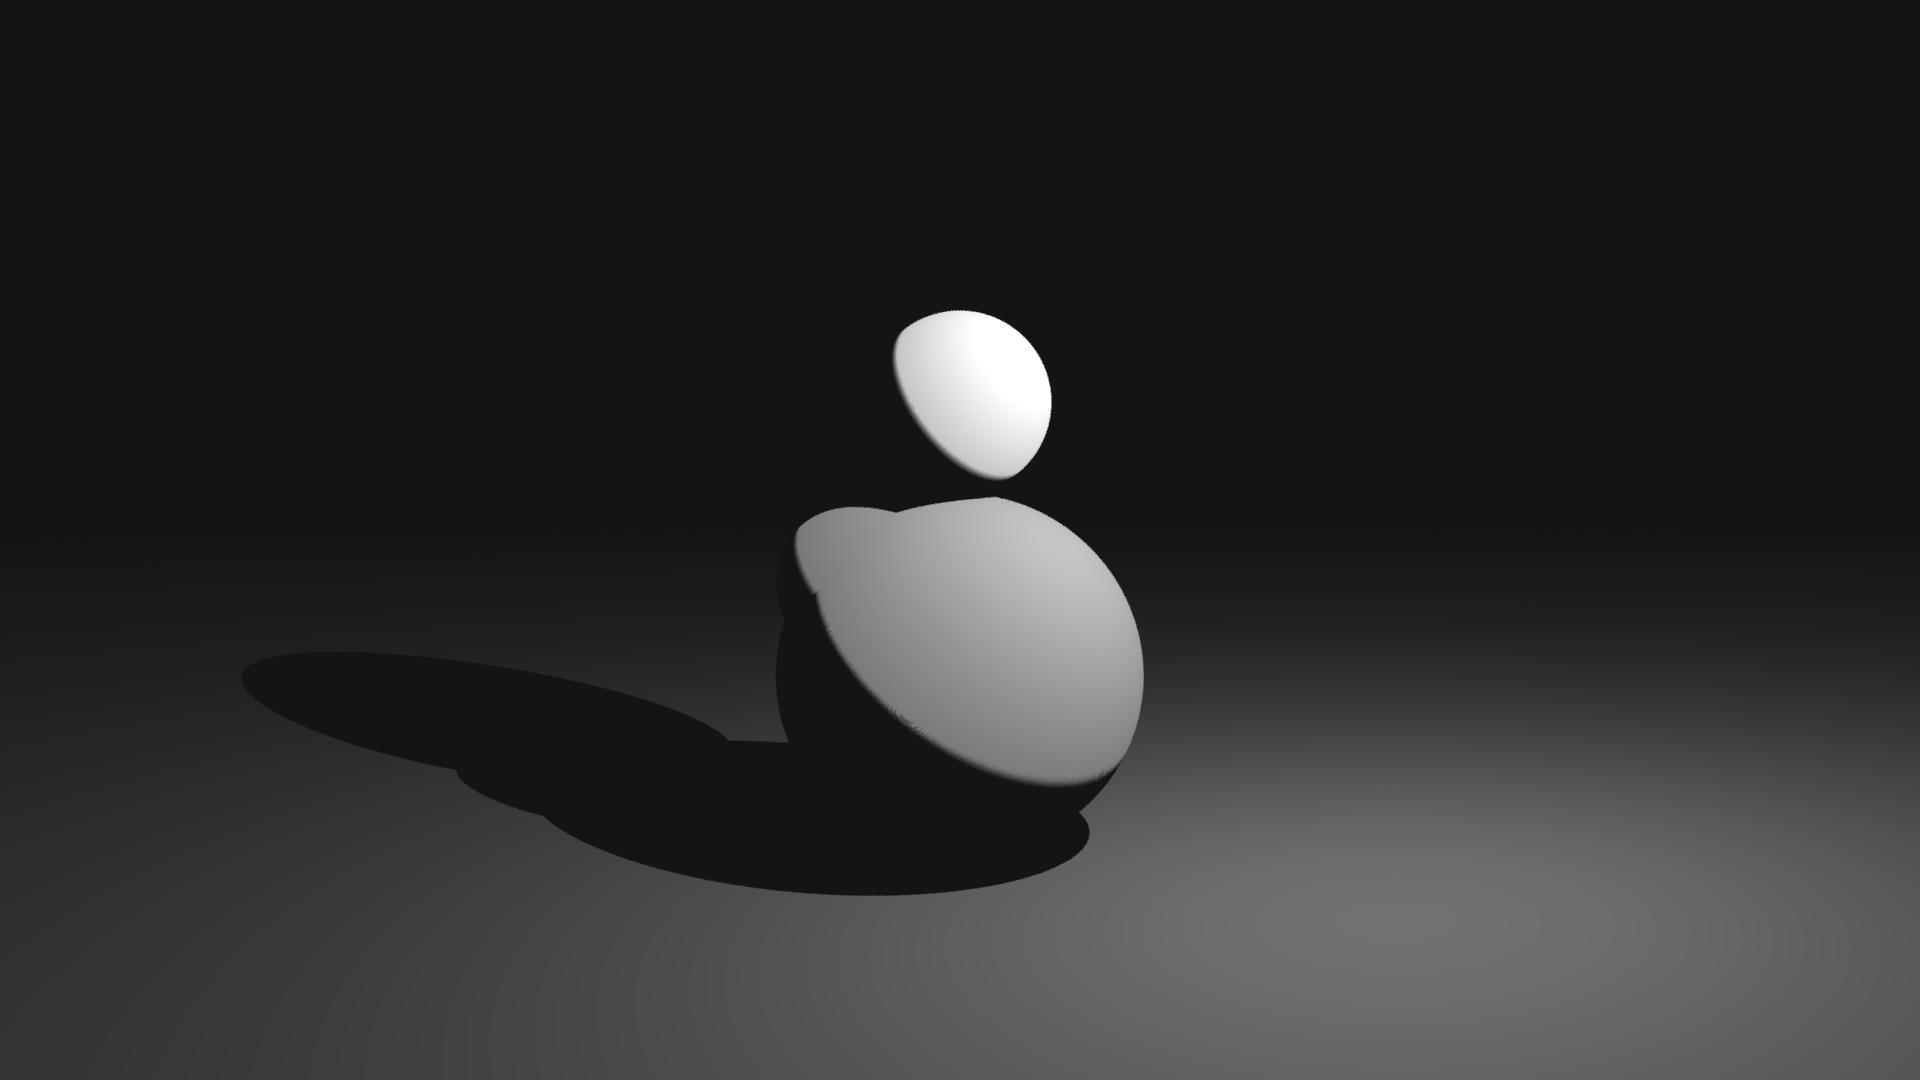
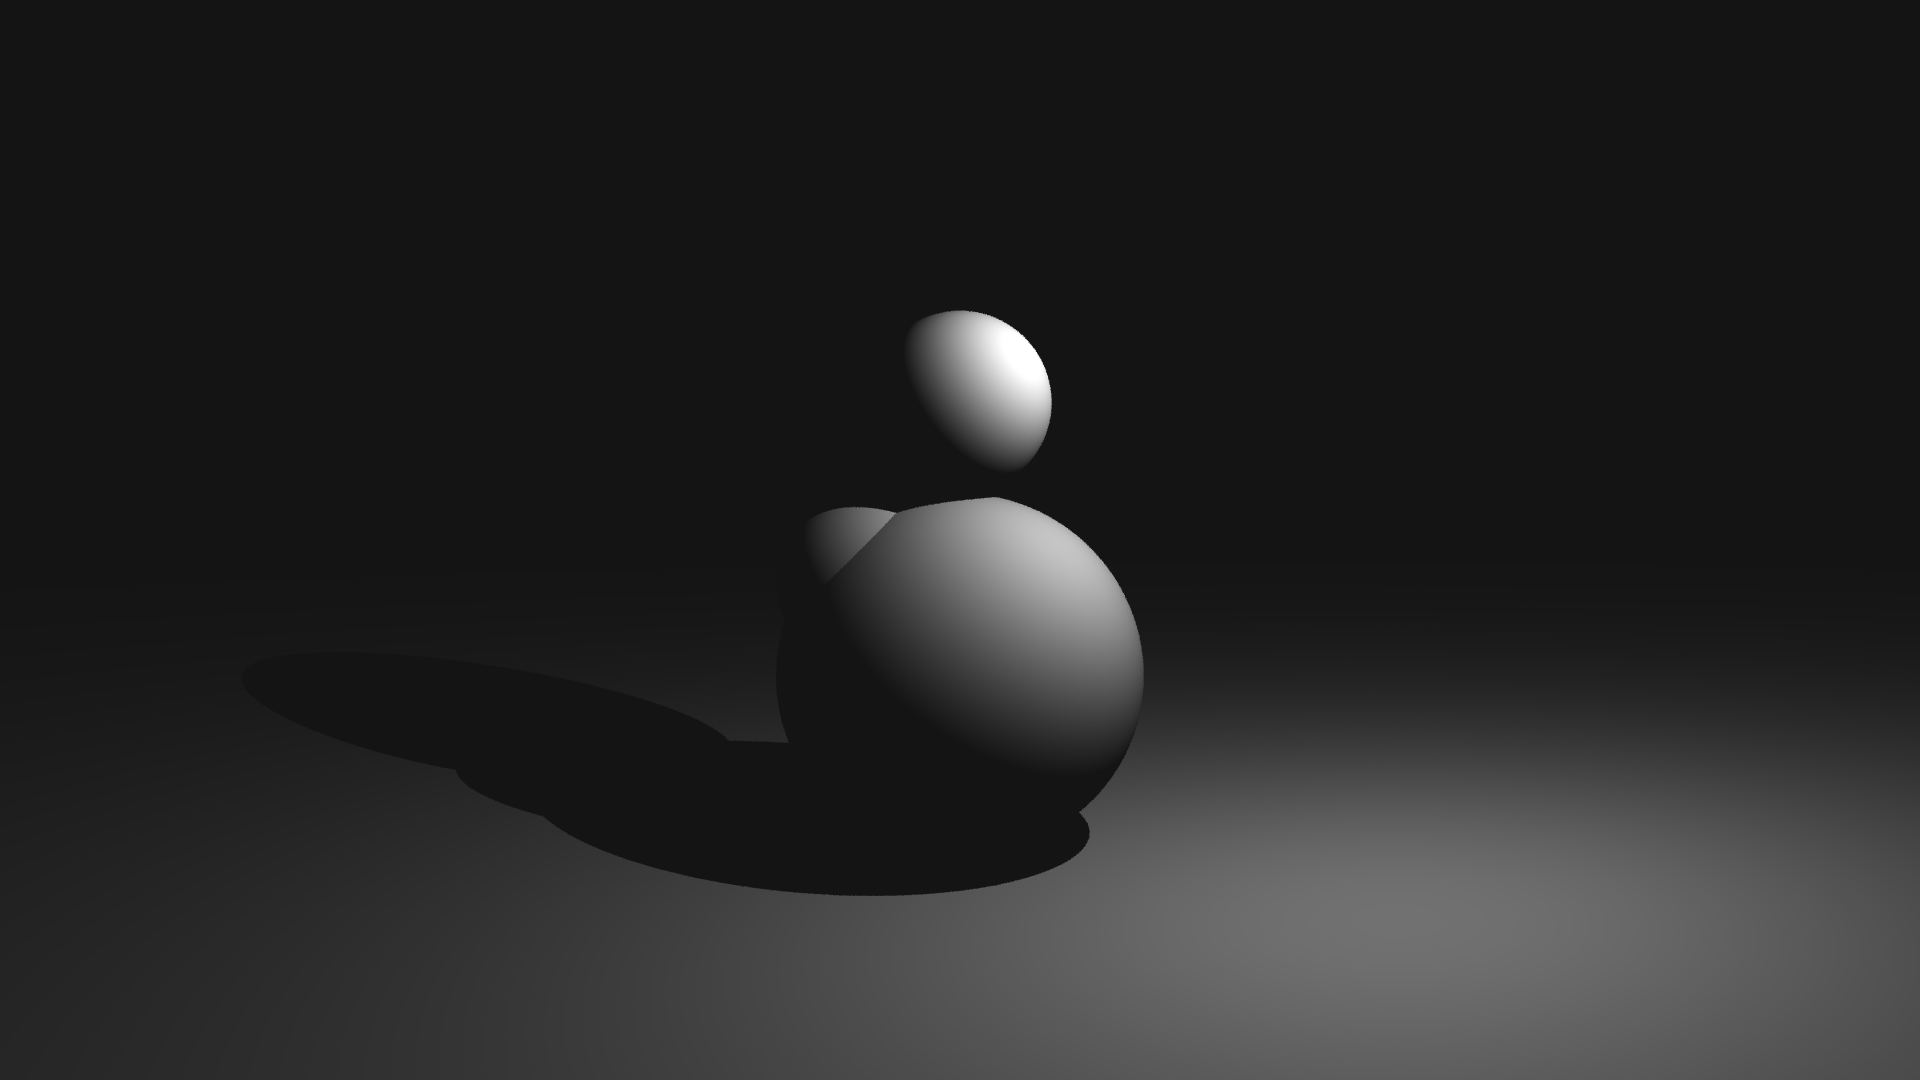
Dim lighting when the face tilts away. AKA dot product. Looks much better now.

Changed region(s): [[0.4062, 0.275, 0.5938, 0.7333]]

diff --git a/src/render.cpp b/src/render.cpp
@@ -144,44 +144,62 @@ double render_px(Scene& scene, Image& img, int x, int y) {
     double pan = ((double)x/img.w - 0.5) * 2*PI * fov_x + scene.cam_pan;
 
     // add randomness to tilt and pan
-    tilt += scene.jitter * randd() * fov_y / img.h;
-    pan += scene.jitter * randd() * fov_x / img.w;
+    tilt += 8 * randd() * fov_y / img.h;
+    pan += 8 * randd() * fov_x / img.w;
 
+    // find closest object in current pixel
     double dz = -sin(tilt);
     double dy = cos(pan) * cos(tilt);
     double dx = sin(pan) * cos(tilt);
-
     Ray ray(scene.cam_x, scene.cam_y, scene.cam_z, dx, dy, dz);
     ray.make_unit();
+
     double dist = 1e9;
+    int obj_ind = -1;
     for (int i = 0; i < (int)scene.objs.size(); i++) {
         double d = intersect(scene.objs[i], ray);
-        if (d < dist)
+        if (d < dist) {
             dist = d;
+            obj_ind = i;
+        }
     }
+    if (obj_ind == -1)
+        return scene.bg;
 
     // coordinates of hit
     double hx = ray.x + ray.dx*dist;
     double hy = ray.y + ray.dy*dist;
     double hz = ray.z + ray.dz*dist;
 
-    double v = scene.scene_light;
+    // normal vector, only dx, dy, dz of ray are used
+    Sphere& obj = scene.objs[obj_ind];
+    Ray normal(0, 0, 0, hx-obj.x, hy-obj.y, hz-obj.z);
+    normal.make_unit();
+
+    // compute lighting
+    double v = scene.bg;
     for (int i = 0; i < (int)scene.lights.size(); i++) {
+        // see if this light hits the object
         Light& light = scene.lights[i];
         double dx = hx - light.x;
         double dy = hy - light.y;
         double dz = hz - light.z;
         double d_map = read_shadow_map(scene, scene.shadow_maps[i], dx, dy, dz);
         double d_real = distance(dx, dy, dz);
-
         if (d_real-d_map > 0.3)
             continue;
 
-        // slowly go from light to dark
-        double diff = fabs(d_real - d_map);
-        double fac = std::min(fabs(diff-0.3) / 0.2, 1.0);
-        double power = light.power / (d_real*d_real);
-        v += power * fac;
+        // inverse square falloff
+        double fac_dist = 1 / pow(d_real, 2);
+
+        // dim by dot of normal and light vector
+        Ray light_ray(0, 0, 0, light.x-hx, light.y-hy, light.z-hz);
+        light_ray.make_unit();
+        double fac_norm = normal.dx*light_ray.dx + normal.dy*light_ray.dy
+            + normal.dz*light_ray.dz;  // normal dot light_ray
+        fac_norm = std::max(fac_norm, 0.0);
+
+        v += light.power * fac_dist * fac_norm;
     }
 
     if (v > 255)

diff --git a/src/shadowmap.hpp b/src/shadowmap.hpp
@@ -168,10 +168,9 @@ struct Scene {
     int SHMAP_W, SHMAP_H;
 
     double cam_x, cam_y, cam_z;  // camera position
-    double cam_pan, cam_tilt;  // 0, 0 faces +y
-    double fov;   // FOV in degrees of X of camera.
-    double scene_light;  // scene light intensity
-    double jitter;  // randomness in sampling
+    double cam_pan, cam_tilt;  // radians. (0, 0) faces +y
+    double fov;   // FOV in degrees of X (horizontal) of camera.
+    double bg;  // background light intensity
 
     bool _built;
 

diff --git a/tests/scene1.cpp b/tests/scene1.cpp
@@ -22,7 +22,7 @@
 
 int main() {
     Shadowmap::Scene scene(0, -15, 3, 0, 0.1, 80);
-    scene.scene_light = 20;
+    scene.bg = 20;
     scene.SHMAP_W = 8192;
     scene.SHMAP_H = 4096;
     scene.add_sphere(0, 0, 0, 2);
@@ -35,7 +35,7 @@ int main() {
     Shadowmap::Image img(1920, 1080);
 
     Shadowmap::build(scene, true);
-    Shadowmap::render(scene, img, 16, true);
+    Shadowmap::render(scene, img, 8, true);
 
     img.write(fp);
 }

diff --git a/src/scene.cpp b/src/scene.cpp
@@ -68,7 +68,6 @@ void Scene::_init() {
     _built = false;
     SHMAP_W = 4096;
     SHMAP_H = 2048;
-    jitter = 10;
 }
 
 void Scene::add_sphere(double x, double y, double z, double rad) {
